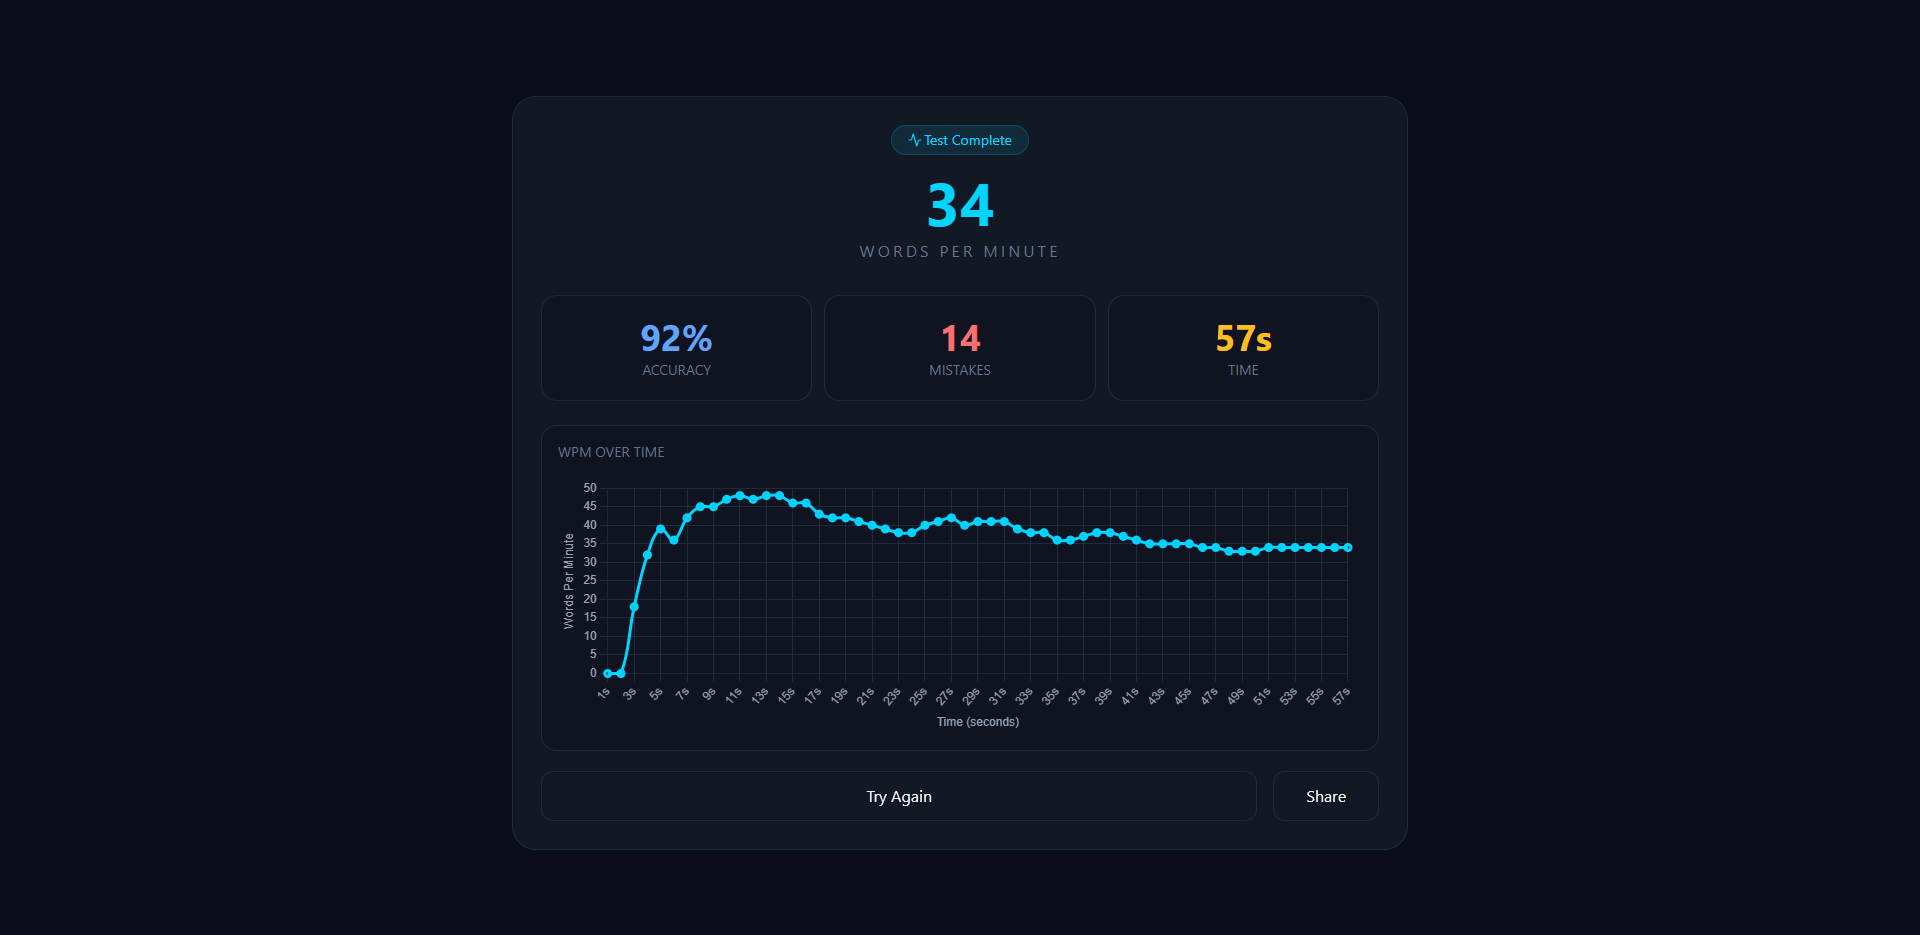
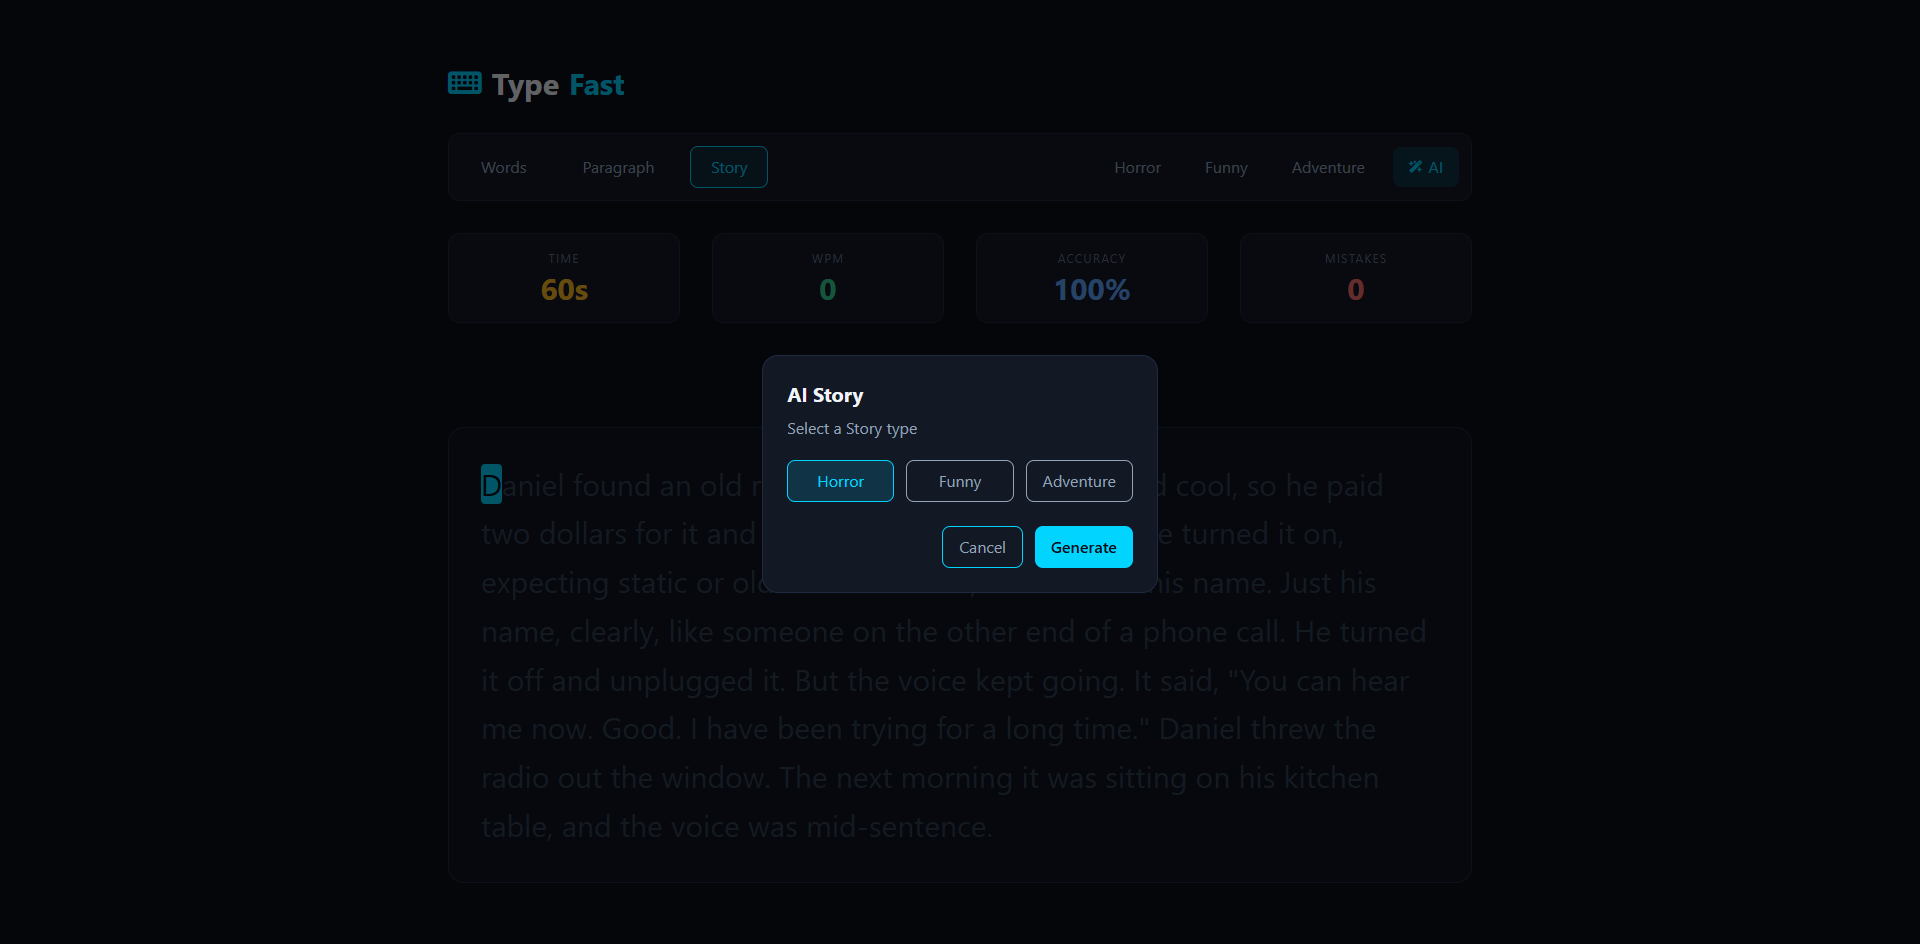
some cleaning and add screenshot

diff --git a/src/App.jsx b/src/App.jsx
@@ -1,4 +1,4 @@
-import { use, useEffect, useRef, useState } from "react"
+import { useEffect, useRef, useState } from "react"
 import paragraphs from "./data/paragraphs"
 import words from "./data/words"
 import stories from "./data/stories"
@@ -11,8 +11,6 @@ import StorySelector from "./components/StorySelector"
 import ParagraphSelector from "./components/ParagraphSelector"
 import { generateStory } from "./utils/ai"
 
-// const apiKey = import.meta.env.VITE_GEMINI_API_KEY
-// console.log(apiKey);
 function App() {
   const [currentText, setCurrentText] = useState("")
   const [typedText, setTypedText] = useState("")
@@ -29,7 +27,6 @@ function App() {
   const [paragraphDifficulty, setParagraphDifficulty] = useState("easy")
   const [selectedAiStoryType , setSelectedAiStoryType] = useState("horror")
   const [showAiModal, setShowAiModal] = useState(false)
-  // const [isAiSelected, setIsAiSelected] = useState(false)
   const inputRef = useRef(null)
   const wpmRef = useRef(0)
   
@@ -148,13 +145,11 @@ function App() {
         return
       }
     }
-    
+
     const selectedStories = stories[selectedStoryType]
     if (!selectedStories) return
     const randomIndex = Math.floor(Math.random() * selectedStories.length)
     setCurrentText(selectedStories[randomIndex])
-
-    return
   }
 
   function applyCustomWords() {
@@ -173,7 +168,6 @@ function App() {
 
   async function handleStory(type) {
     if (type !== "ai") {
-      // setIsAiSelected(false)
       setSelectedStoryType(type)
 
       const selectedStories = stories[type]
@@ -183,7 +177,7 @@ function App() {
 
       return
     }
-    // setIsAiSelected(true)
+
     setSelectedStoryType("ai")
     setShowAiModal(true)
   }
@@ -284,7 +278,6 @@ function App() {
             <StorySelector 
               handleStory={handleStory}
               selectedStoryType={selectedStoryType}
-              // isAiSelected={isAiSelected} 
             />
           )}
 
@@ -297,12 +290,6 @@ function App() {
         </div>
 
         <Stats timeLeft={timeLeft} wpm={wpm} mistakes={mistakes} accuracy={accuracy}/>
-        
-        {/* {loadingStory && (
-          <p className="text-center mb-4 text-yellow-400">
-            Generating Story...
-          </p>
-        )} */}
 
         {!testStarted && (
           <div className="flex justify-center mb-6">
@@ -343,7 +330,6 @@ function App() {
 
             <input 
                 type="text"
-                // inputMode="numeric"
                 placeholder="word amount"
                 value={customWords}
                 onChange={(e) => {
@@ -409,10 +395,7 @@ function App() {
             <div className="flex justify-end gap-3">
               <button 
                 className="px-4 py-2 rounded-lg text-secondary-text border border-cyan cursor-pointer"
-                onClick={() => {setShowAiModal(false)
-                  //  setIsAiSelected(false)
-                  // setSelectedStoryType("horror")
-                  }}
+                onClick={() => setShowAiModal(false)}
               >
                 Cancel
               </button>

diff --git a/src/components/ResultChart.jsx b/src/components/ResultChart.jsx
@@ -1,4 +1,4 @@
-import { Chart as ChartJS, CategoryScale, LinearScale,  PointElement, LineElement, Tooltip, Legend} from "chart.js"
+import { Chart as ChartJS, CategoryScale, LinearScale,  PointElement, LineElement, Tooltip, Legend, Filler} from "chart.js"
 import { Line } from "react-chartjs-2"
 
 ChartJS.register(
@@ -7,7 +7,8 @@ ChartJS.register(
     PointElement,
     LineElement,
     Tooltip, 
-    Legend
+    Legend,
+    Filler 
 )
 
 function ResultChart({wpmHistory}) {

diff --git a/README.md b/README.md
@@ -55,7 +55,6 @@ Then start the dev server:
 This project still being worked on. Some feature I plan to add:
 * Custom timer let the user pick 30, 60 or 120 seconds instead of always 60
 * Personal best tracking and leaderboard
-* Story mode update
 * Option to turn the keyboard sound on/off like Settings Option 
 * Responsive design
 * User authentication (login / signup)